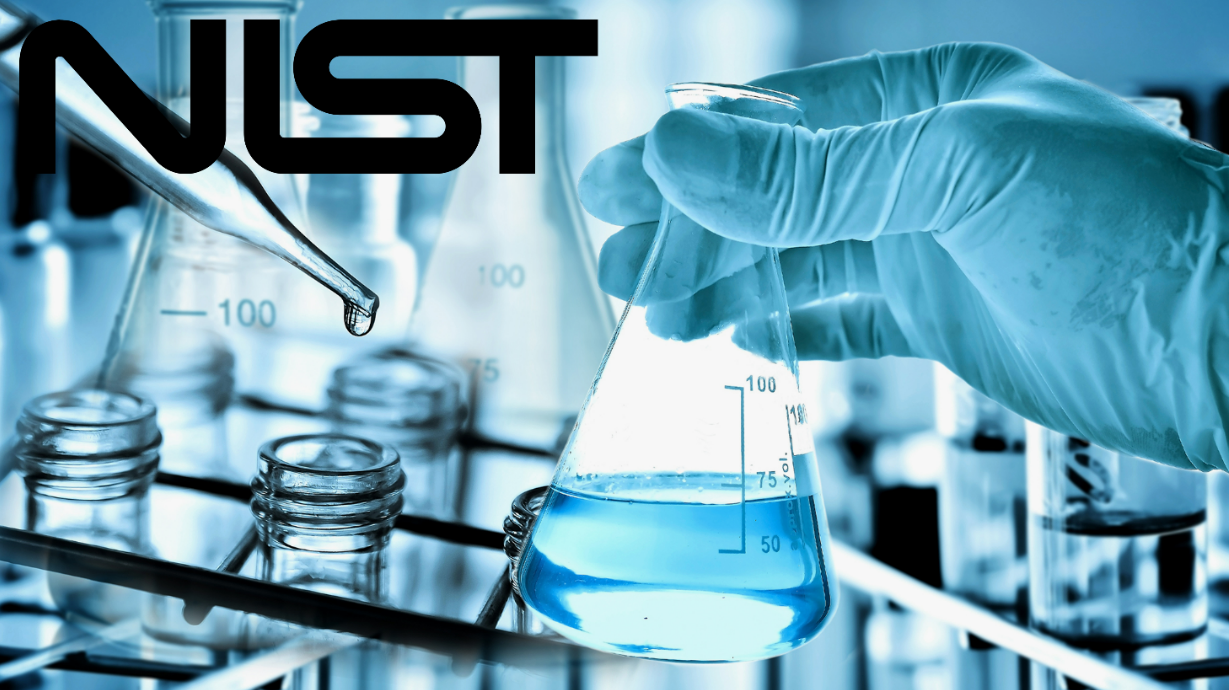
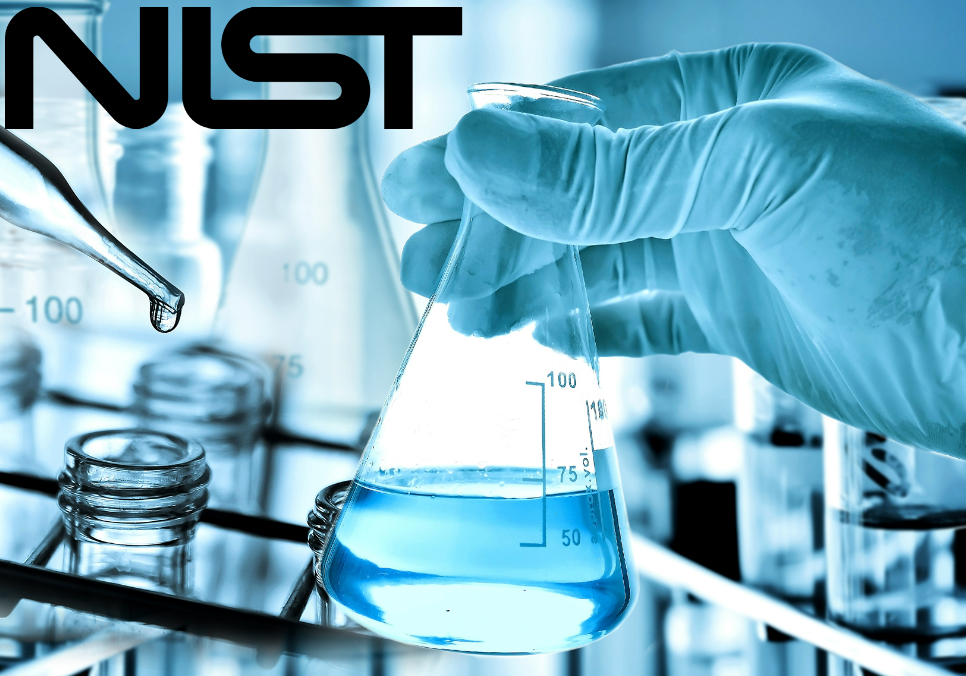
Resize Pictures

diff --git a/index.html b/index.html
@@ -333,7 +333,7 @@
             <div class="row">
                 <div class="blog-card">
                     <div class="img-holder">
-                        <img src="assets/imgs/FTSFull.png" alt="Download free bootstrap 4 landing page, free boootstrap 4 templates, Download free bootstrap 4.1 landing page, free boootstrap 4.1.1 templates, meyawo Landing page">
+                        <img src="assets/imgs/FTSFull.png" alt="">
                     </div>
                     <div class="content-holder">
                         <h6 class="title">FTS International FPGA Designer</h6>
@@ -407,6 +407,19 @@
                     </div>
                     <div class="content-holder">
                         <h4 class="title">National Institutes of Health Medical Research Intern</h4>
+                        
+                        <p> consectetur adipisicing elit. Impedit excepturi laborum enim, vitae ipsam atque eum, ad iusto consequuntur voluptas, esse doloribus. Perferendis porro quisquam vitae exercitationem aliquid, minus eos laborum repudiandae, cumque debitis iusto omnis praesentium? Laborum placeat sit adipisci illum tempore maxime, esse qui quae? Molestias excepturi corporis similique doloribus. Esse vitae earum architecto nulla non dolores illum at perspiciatis quod, et deleniti cupiditate reiciendis harum facere, delectus eum commodi soluta distinctio sit repudiandae possimus sunt. Ipsum, rem.</p>
+
+                        <a href="#" class="read-more">Read more <i class="ti-angle-double-right"></i></a>
+                    </div>
+                </div>
+
+                <div class="blog-card">
+                    <div class="img-holder">
+                        <img src="assets/imgs/MARC.png" alt="Download free bootstrap 4 landing page, free boootstrap 4 templates, Download free bootstrap 4.1 landing page, free boootstrap 4.1.1 templates, meyawo Landing page">
+                    </div>
+                    <div class="content-holder">
+                        <h4 class="title">Mudd Advanced Rocketry Club</h4>
                         
                         <p> consectetur adipisicing elit. Impedit excepturi laborum enim, vitae ipsam atque eum, ad iusto consequuntur voluptas, esse doloribus. Perferendis porro quisquam vitae exercitationem aliquid, minus eos laborum repudiandae, cumque debitis iusto omnis praesentium? Laborum placeat sit adipisci illum tempore maxime, esse qui quae? Molestias excepturi corporis similique doloribus. Esse vitae earum architecto nulla non dolores illum at perspiciatis quod, et deleniti cupiditate reiciendis harum facere, delectus eum commodi soluta distinctio sit repudiandae possimus sunt. Ipsum, rem.</p>
 
@@ -1076,7 +1089,7 @@
                                 <i class="ti-envelope icon-md"></i>
                             </div>
                             <div class="col-10">
-                                <h6 class="d-inline">Email :<br> <span class="text-muted">info@website.com</span></h6>
+                                <h6 class="d-inline">Email :<br> <span class="text-muted">liamchalk00@gmail.com</span></h6>
                             </div>
                         </div>
                         <ul class="social-icons pt-4">

diff --git a/assets/css/styles.css b/assets/css/styles.css
@@ -11285,8 +11285,11 @@ p {
 }
 
 .blog-card .img-holder {
-  min-width: 350px;
-  max-width: 500px;
+  min-height: 200px;
+  max-height: 500px;
+  /*min-width: 540px; */
+  min-width: 561px;
+  max-width: 800px;
 }
 
 .blog-card .img-holder img {
